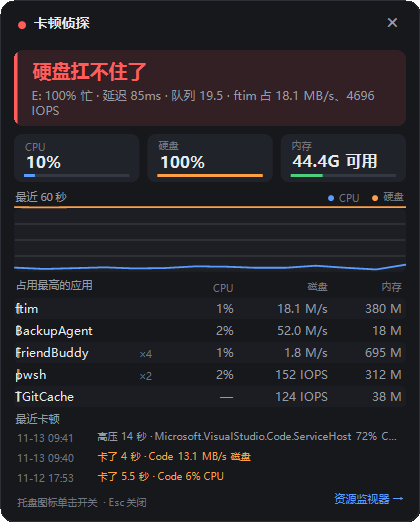
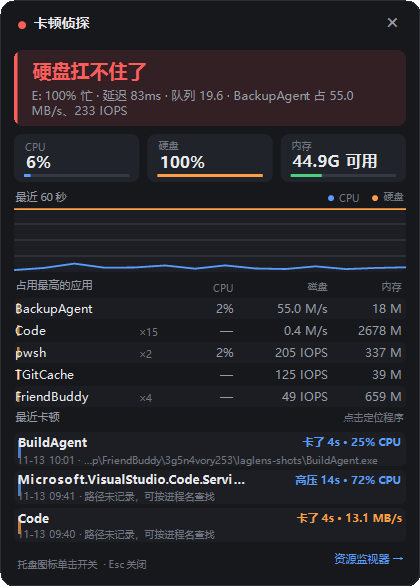
Polish incident interactions and refresh documentation screenshots

diff --git a/UI/StatusPopup.cs b/UI/StatusPopup.cs
@@ -197,7 +197,7 @@ public sealed class StatusPopup : Form
         }
 
         int incident = HitIncident(p);
-        if (incident >= 0)
+        if (e.Button == MouseButtons.Left && incident >= 0)
         {
             OpenIncidentLocation(_incidentRects[incident].Record);
             return;
@@ -461,7 +461,10 @@ public sealed class StatusPopup : Form
             double v = Math.Clamp(values[i], 0, 100) / 100d;
             points[i] = new PointF(
                 ChartRect.X + (i * stepX),
-                ChartRect.Bottom - (float)(ChartRect.Height * v) - 1);
+                Math.Clamp(
+                    ChartRect.Bottom - (float)(ChartRect.Height * v) - 1,
+                    ChartRect.Top + 1,
+                    ChartRect.Bottom - 1));
         }
 
         if (fillArea)
@@ -555,8 +558,6 @@ public sealed class StatusPopup : Form
     private void DrawIncidents(Graphics g)
     {
         DrawText(g, "最近卡顿", SmallFont, Theme.TextSecondary, new RectangleF(14, 410, 140, 16), LeftFmt);
-        DrawText(g, "点击定位程序", TinyFont, Theme.TextDim,
-            new RectangleF(BaseWidth - 128, 411, 114, 15), RightFmt);
 
         IReadOnlyList<IncidentRecord> items = _sampler.Store.Recent(3);
         if (items.Count == 0)
@@ -565,6 +566,9 @@ public sealed class StatusPopup : Form
                 new RectangleF(16, IncidentTop + 8, 300, 16), LeftFmt);
             return;
         }
+
+        DrawText(g, "点击定位程序", TinyFont, Theme.TextDim,
+            new RectangleF(BaseWidth - 128, 411, 114, 15), RightFmt);
 
         for (int i = 0; i < items.Count; i++)
         {
@@ -639,6 +643,12 @@ public sealed class StatusPopup : Form
 
     private void OpenIncidentLocation(IncidentRecord item)
     {
+        if (string.IsNullOrWhiteSpace(item.Culprit) || item.Culprit == "未知")
+        {
+            ShowNotice("这条记录没抓到具体进程，无法定位");
+            return;
+        }
+
         string? path = ResolveExecutablePath(item);
         if (path is null)
         {

diff --git a/README.en.md b/README.en.md
@@ -25,6 +25,7 @@ So LagLens samples every second, keeps the last 60 seconds in memory, and record
 - **The tray icon is the status**: green = fine, orange = busy, red = struggling; it **stays red while an incident is unread**
 - **No popups, ever**: it never steals focus, it only changes the tray color
 - **Automatic incident log**: freezes and sustained high pressure are written to disk; the panel shows the latest three
+- **Click to locate**: click any incident to open the culprit's folder in Explorer with the exe selected
 - **Start with Windows**, plus a shortcut to Resource Monitor
 
 ## Screenshots
@@ -88,11 +89,14 @@ LagLens.exe --shot <png path>   sample for 15s, then render the panel to PNG (do
 
 Records live in `%LOCALAPPDATA%\LagLens\incidents.json`, capped at 200 entries and kept across restarts.
 
+The panel shows the latest three: the app name and duration/peak on the first line, time and exe path on the second. Clicking one opens its folder in Explorer with the file selected (`explorer /select`). If an older record has no stored path, LagLens falls back to looking up a running process with the same name.
+
 | Field | Meaning |
 | --- | --- |
 | `Kind` | `冻结` (freeze) / `高压` (sustained pressure) |
 | `Seconds` | duration |
 | `Culprit` | busiest process name at the time |
+| `CulpritPath` | full path to the culprit exe, used for click-to-locate |
 | `Resource` | `CPU` / `磁盘` (disk) / `内存` (memory) |
 | `Peak` | culprit's peak value (percent / MB/s / MB) |
 | `Cpu` / `DiskBusy` / `DiskLatencyMs` | system peaks during the episode |
